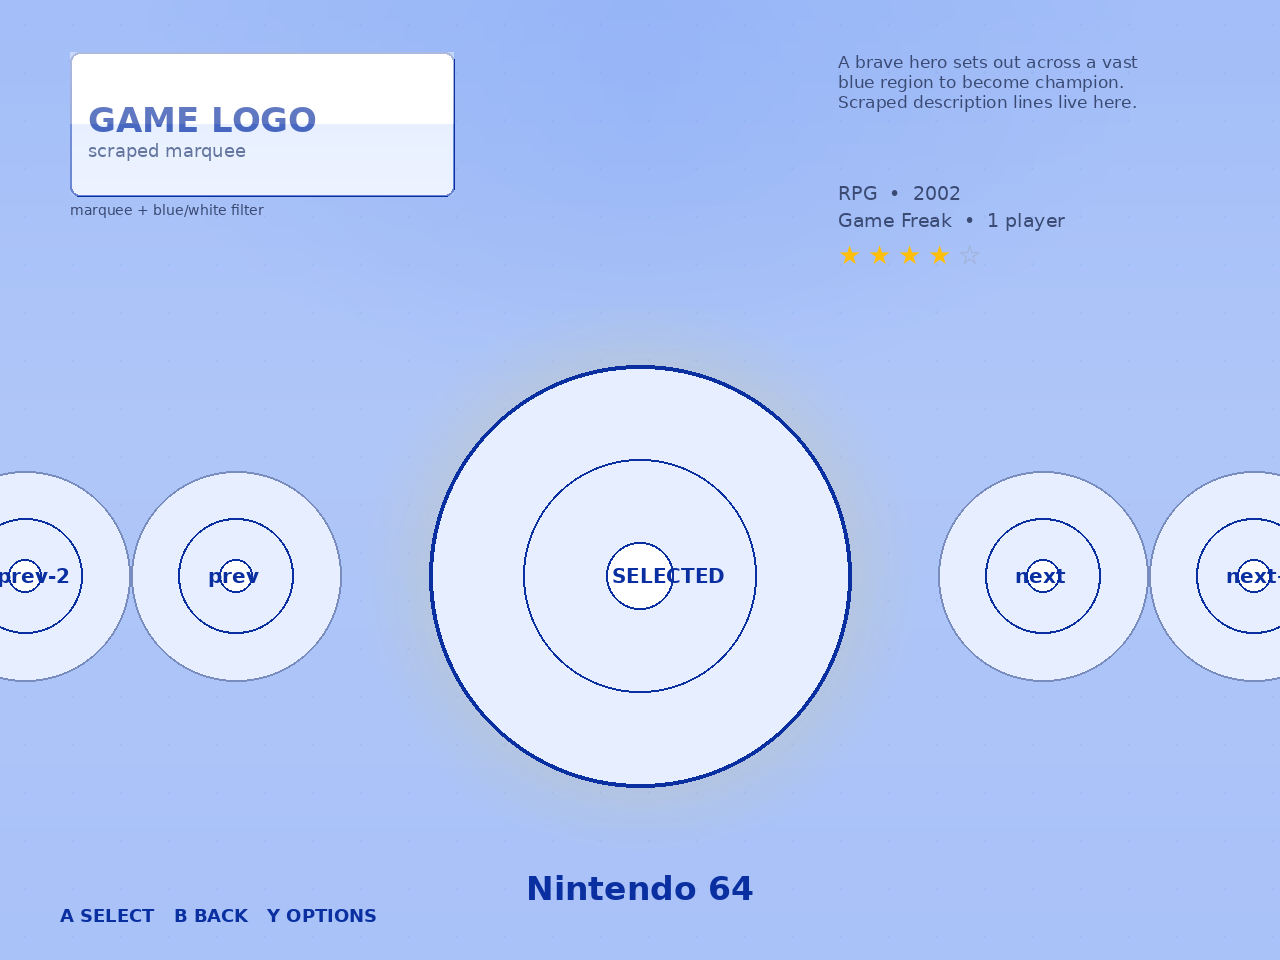
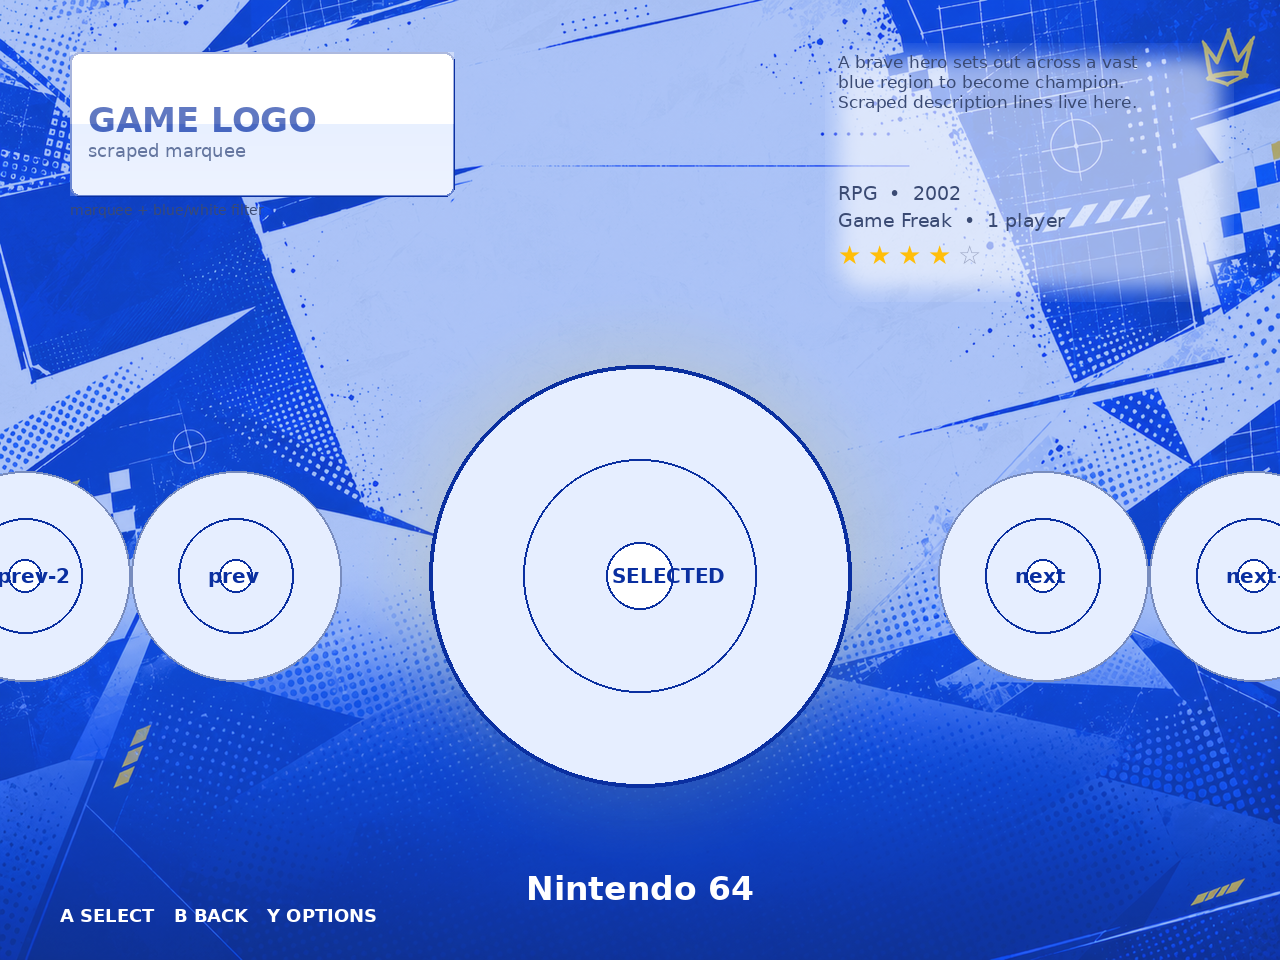
v5.1.0: user's generic background with baked blue wash + readability fixes
- User-supplied generic background (1448x1086, exact 4:3): same-aspect
  Lanczos resize to 1280x960, royal-blue overlay baked at 38% opacity —
  washed out but still visible, per his instruction
- Removed the separate libBlueTint layer (wash is now in the art itself)
- Readability on the new art: console name and footer words flipped to
  white (they sit on the deep-blue lower half); new soft white scrim
  (art/meta_scrim.png, z59) behind the top-right metadata block, which
  sits over the art's busy blueprint/crown zone
- Proof: work/proof_v50.py re-rendered against the real background
- Validator passes pinned 3.4.1; deterministic build byte-identical

diff --git a/work/proof_v50.py b/work/proof_v50.py
@@ -18,9 +18,6 @@ def f(size, bold=False):
         return ImageFont.load_default()
 
 img = Image.open(f'{ART}/gamelist_generic_bg.png').convert('RGBA')
-# royal-blue wash (lib_blue_tint)
-tint = Image.open(f'{ART}/lib_blue_tint.png').convert('RGBA').resize((W, H))
-img = Image.alpha_composite(img, tint)
 d = ImageDraw.Draw(img)
 INK = (58, 74, 115, 255); DEEP = (10, 47, 160, 255)
 
@@ -36,6 +33,14 @@ tmp = Image.alpha_composite(tmp, wash)
 img.paste(tmp, (mx, my))
 d = ImageDraw.Draw(img)
 d.text((mx, my+mh+6), 'marquee + blue/white filter', font=f(14), fill=INK)
+
+# --- metadata scrim (0.645,0.045 0.32x0.27)
+scrim = Image.open(f'{ART}/meta_scrim.png').convert('RGBA').resize((int(0.32*W), int(0.27*H)))
+img = Image.alpha_composite(img, Image.new('RGBA', img.size, (0,0,0,0)))
+layer = Image.new('RGBA', img.size, (0,0,0,0))
+layer.alpha_composite(scrim, (int(0.645*W), int(0.045*H)))
+img = Image.alpha_composite(img, layer)
+d = ImageDraw.Draw(img)
 
 # --- metadata block top-right
 bx = int(0.655*W)
@@ -73,9 +78,9 @@ disk(int(0.815*W), cy, r_nb, 'next')
 disk(int(0.98*W), cy, r_nb, 'next+2')
 
 # --- console name bottom-center
-d.text((W//2, int(0.925*H)), 'Nintendo 64', font=f(33, True), fill=DEEP, anchor='mm')
+d.text((W//2, int(0.925*H)), 'Nintendo 64', font=f(33, True), fill=(255,255,255,255), anchor='mm')
 # --- footer
-d.text((60, int(0.955*H)), 'A SELECT   B BACK   Y OPTIONS', font=f(18, True), fill=DEEP, anchor='lm')
+d.text((60, int(0.955*H)), 'A SELECT   B BACK   Y OPTIONS', font=f(18, True), fill=(255,255,255,255), anchor='lm')
 
 out = os.path.expanduser('~/workspace/crystal-esde-theme/work/proofs/proof_v50_skeleton.png')
 img.convert('RGB').save(out)
